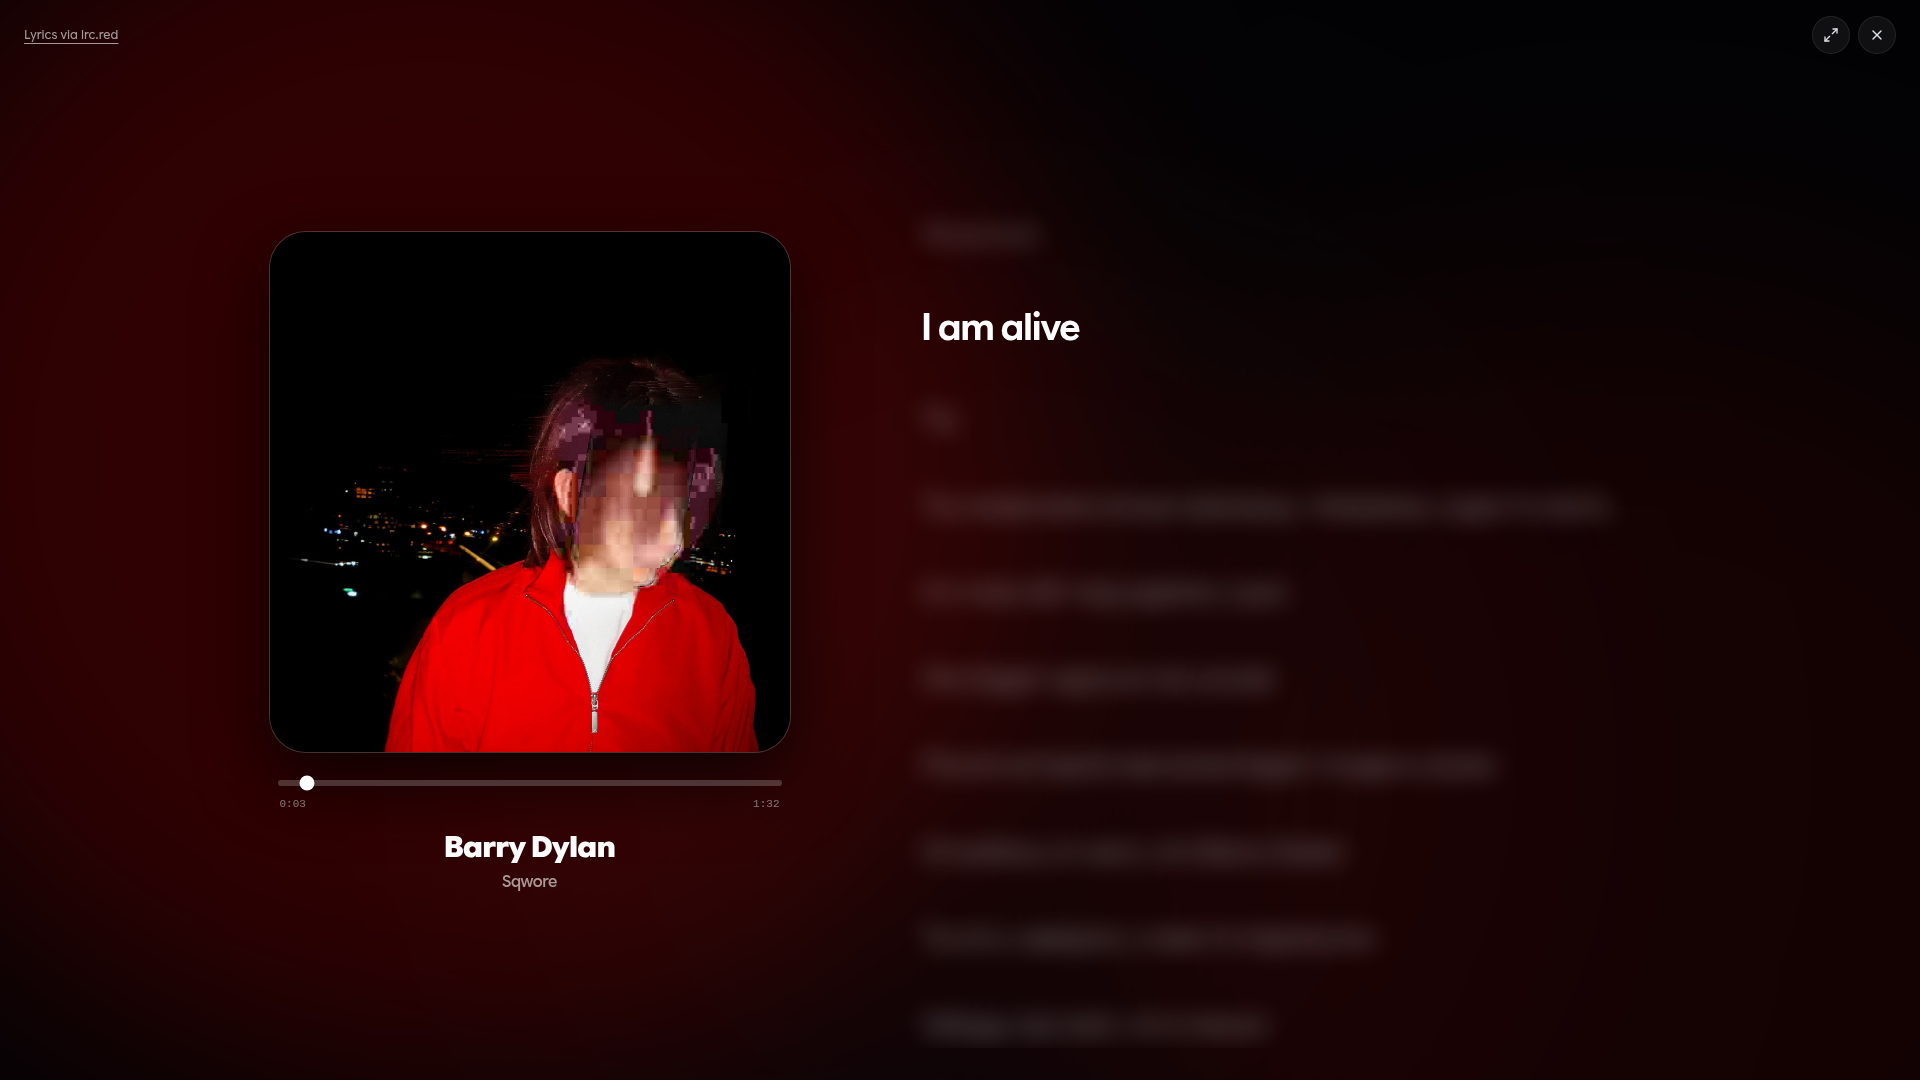
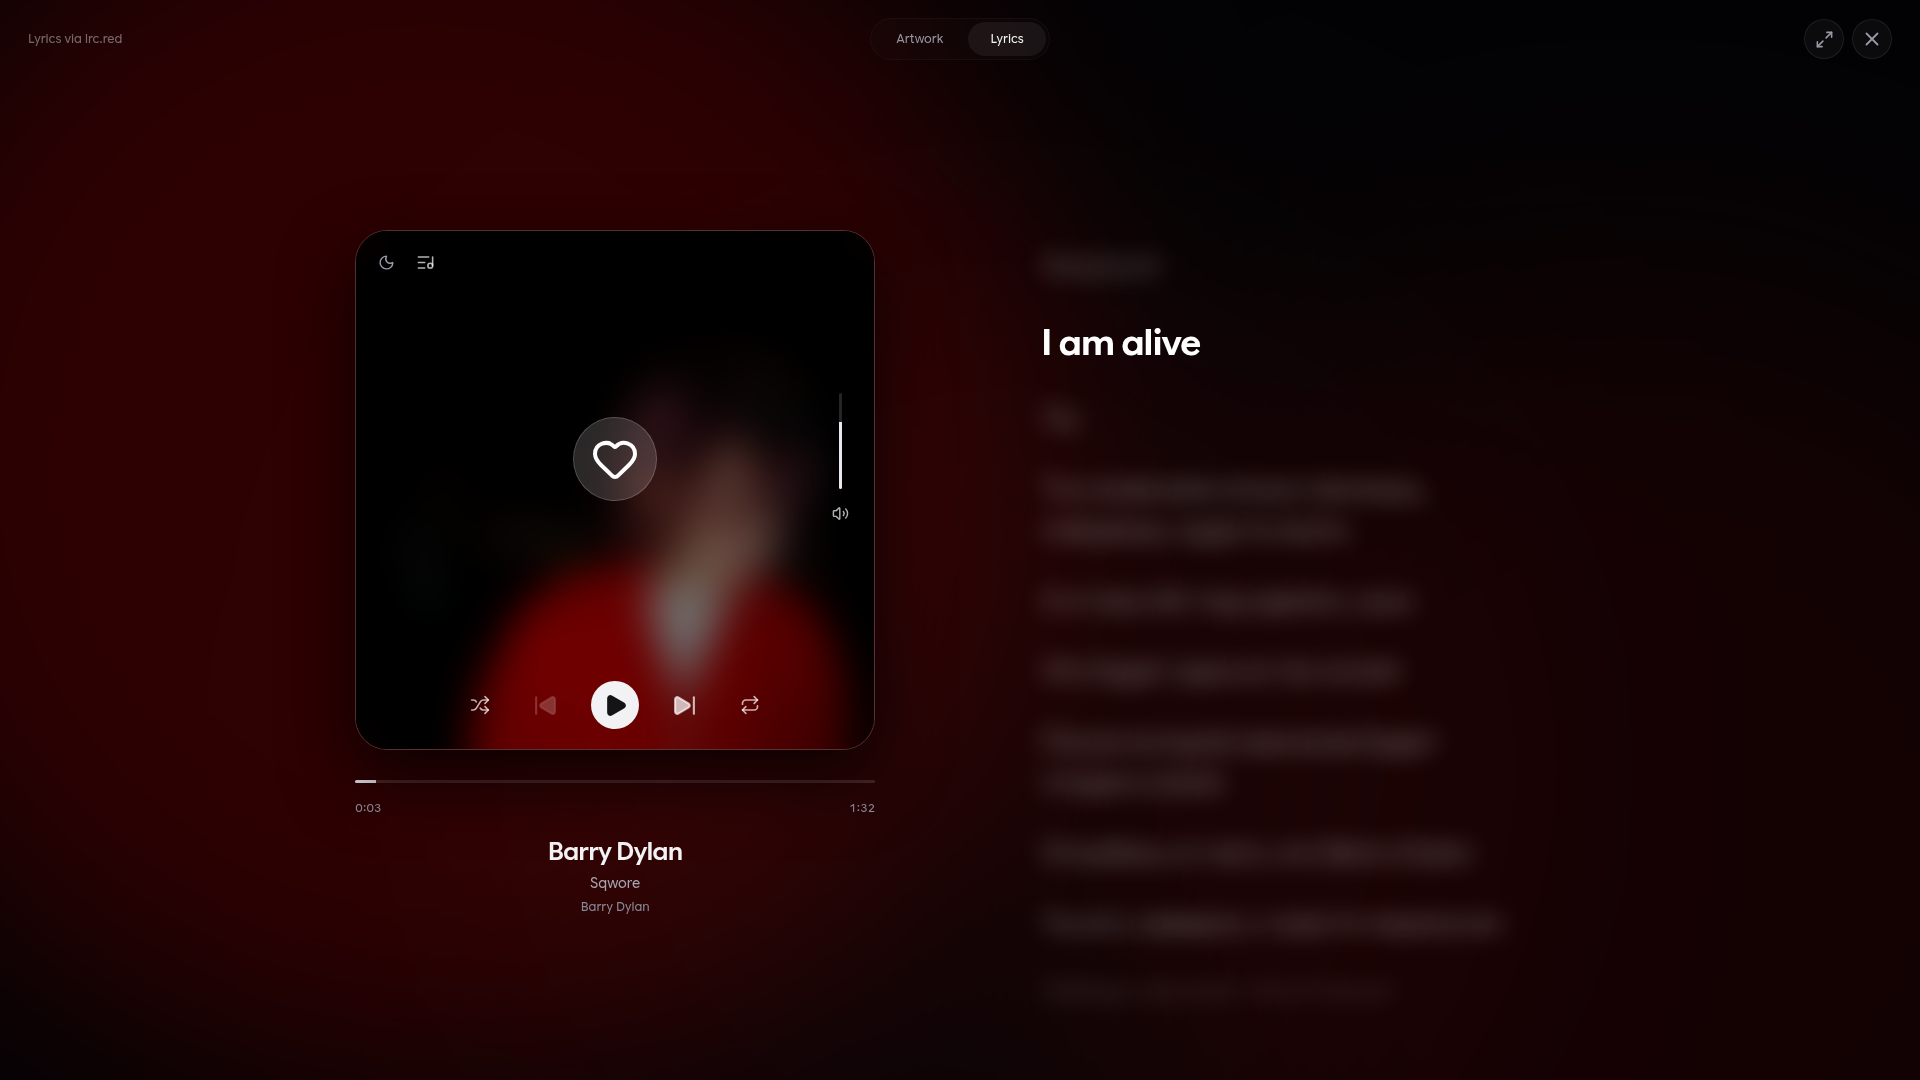
docs: refresh screenshots from the current interface [skip ci]

Changed region(s): [[0.125, 0.2139, 0.625, 0.7333], [0.2188, 0.7639, 0.3438, 0.8556], [0.0, 0.0306, 0.0625, 0.0611]]

diff --git a/README.md b/README.md
@@ -9,7 +9,7 @@ A self-hosted music server with a React web player, a Subsonic-compatible API, a
 ## Features
 
 - **Your music, on your server.** Scan local folders, browse albums and artists, search the collection, and manage playlists and favorites.
-- **A web player built for listening.** A floating player, mobile now-playing screen, editable playback queue, sleep timer, cover viewer, and responsive layouts. Playback position and queue are restored on this browser, paused, separately for each account. The Mix design combines peach accents and glass surfaces with consistent spacing.
+- **A web player built for listening.** A floating player, mobile now-playing screen, editable playback queue, sleep timer, cover viewer, and responsive layouts. Playback position and queue are restored on this browser, paused, separately for each account. Midnight is the default theme, with additional color themes and subtle glass surfaces.
 - **Line-synchronized lyrics.** Highlighting, automatic scrolling, and click-to-seek from local files, embedded tags, [lrc.red](https://lrc.red), and [LRCLIB](https://lrclib.net). Word timestamps are reduced to line timing.
 - **Subsonic clients.** Native audio streaming with HTTP range requests, search, playlists, favorites, ratings, scrobbling, and saved queues. Streaming serves the original audio; server-side transcoding is not implemented.
 - **Incremental library scans.** Re-read changed files or run a full metadata scan. Missing files retain their IDs and playlist, favorite, and history references.
@@ -41,16 +41,27 @@ The Mix interface with the music library from the [production instance](https://
       <p><strong>Compact layout</strong><br />A denser grid for browsing larger libraries.</p>
     </td>
   </tr>
+  <tr>
+    <td width="50%">
+      <a href="pictures/08_now_playing.png"><img src="pictures/08_now_playing.png" alt="Desktop now-playing panel with artwork and the next track" width="100%" /></a>
+      <p><strong>Now playing</strong><br />A desktop side panel with artwork, lyrics access, and the next track.</p>
+    </td>
+    <td width="50%">
+      <a href="pictures/09_queue.png"><img src="pictures/09_queue.png" alt="Playback queue with the current track and upcoming songs" width="100%" /></a>
+      <p><strong>Playback queue</strong><br />Upcoming songs, reordering, and saving the queue as a playlist.</p>
+    </td>
+  </tr>
 </table>
 
 <details>
 <summary>Lyrics and mobile views</summary>
 
-<p><strong>Line-synchronized lyrics</strong> — surrounding text is blurred in this capture to keep the focus on the active line.</p>
+<p><strong>Line-synchronized lyrics</strong> — artwork colors, glass controls inside the cover, and the lyrics source in the corner. Surrounding lyric text is blurred in the capture.</p>
 <a href="pictures/06_karaoke_lyrics.png"><img src="pictures/06_karaoke_lyrics.png" alt="Lyrics screen with a highlighted line, cover artwork, and playback controls" width="100%" /></a>
 
-<p><strong>Mobile player</strong></p>
-<a href="pictures/07_mobile.png"><img src="pictures/07_mobile.png" alt="TuneCloud on a phone-sized screen with accessible player controls" width="320" /></a>
+<p><strong>Mobile home and player</strong> — compact album spotlight and a full player with large artwork.</p>
+<a href="pictures/07_mobile.png"><img src="pictures/07_mobile.png" alt="Mobile home with a compact album spotlight and mini player" width="320" /></a>
+<a href="pictures/10_mobile_now_playing.png"><img src="pictures/10_mobile_now_playing.png" alt="Mobile now-playing screen with large artwork and playback controls" width="320" /></a>
 
 </details>
 
@@ -170,7 +181,7 @@ Database integration tests require `TEST_DATABASE_URL` pointing to a separate te
 
 ### Refreshing screenshots
 
-The capture script uses headless Chromium against a running instance. Credentials are read from `TUNECLOUD_USERNAME` and `TUNECLOUD_PASSWORD`; they are never written to the script, screenshots, or browser state files. See [scripts/capture-readme.mjs](scripts/capture-readme.mjs) for setup and capture options.
+The capture script uses headless Chromium against a running instance and defaults to the Midnight theme. It captures the home, player, album library, album detail, lyrics, desktop side panels, and mobile layouts. Credentials are read from `TUNECLOUD_USERNAME` and `TUNECLOUD_PASSWORD`; they are never written to the script, screenshots, or browser state files. See [scripts/capture-readme.mjs](scripts/capture-readme.mjs) for setup and capture options.
 
 ## Credits and license
 
